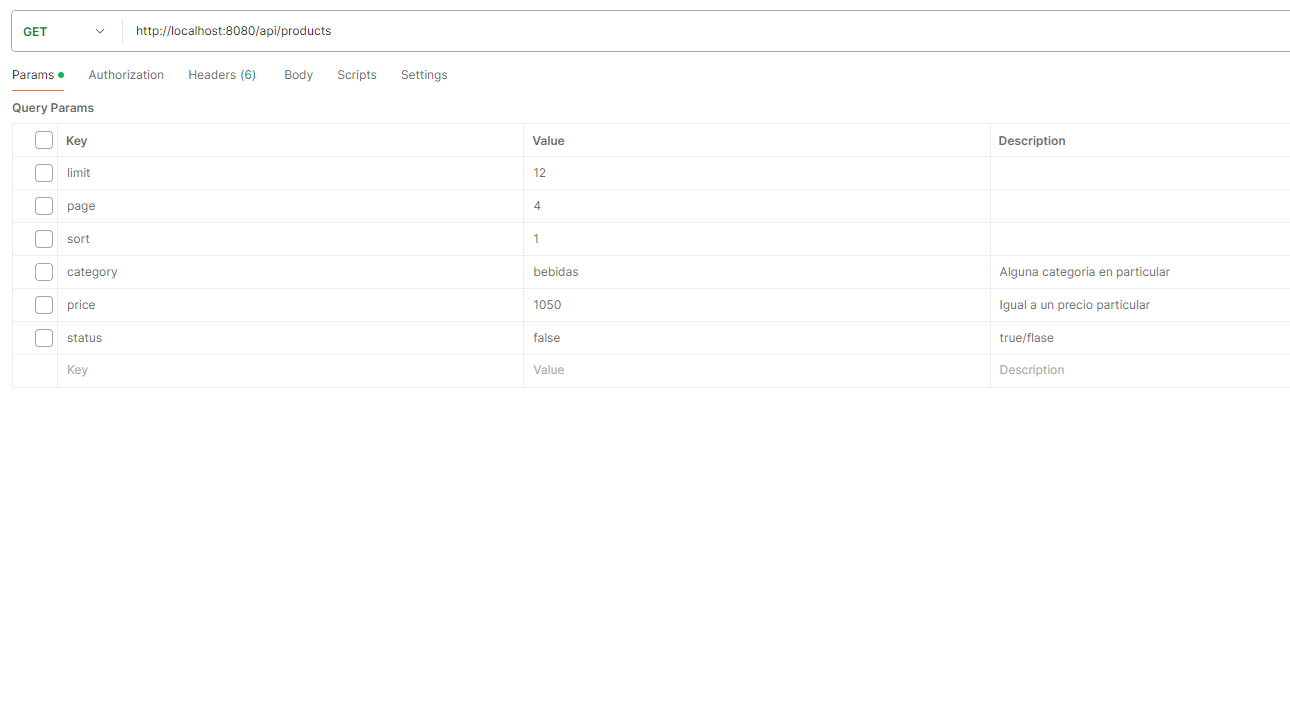
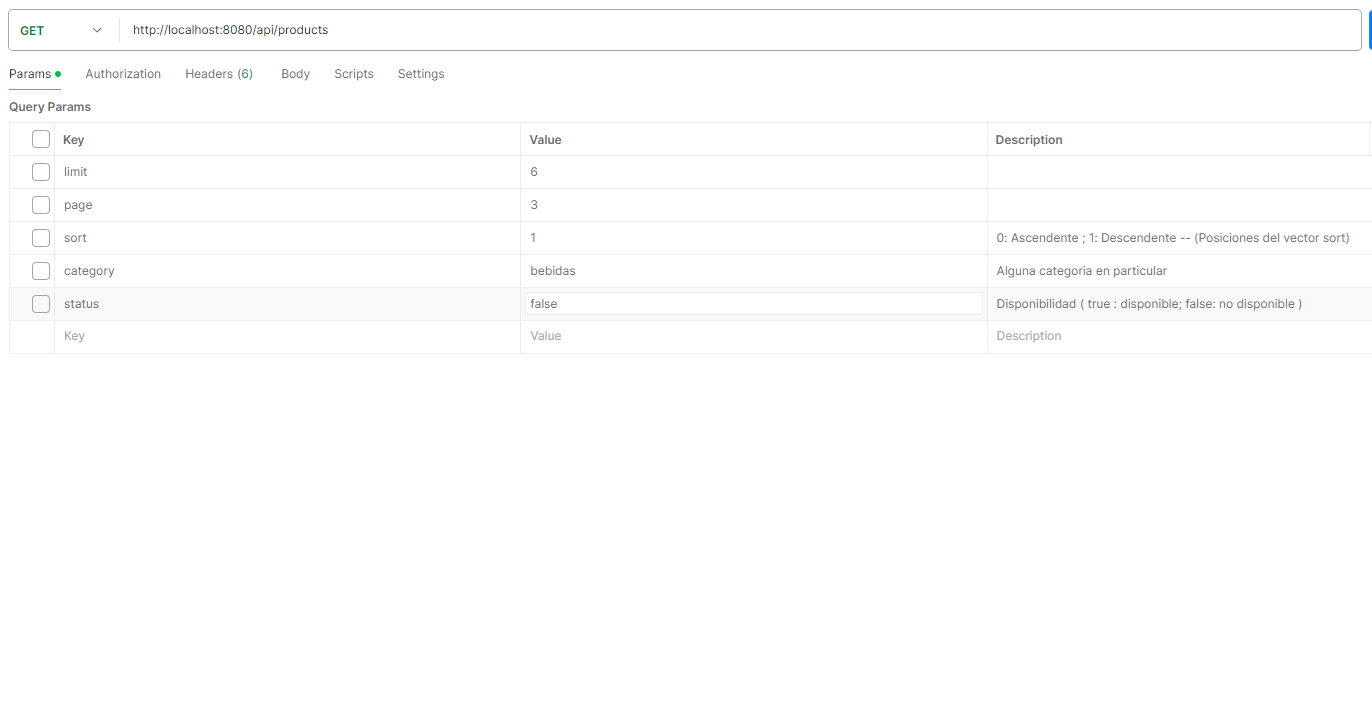
Parametros y filtros v1.1

diff --git a/src/models/product.model.js b/src/models/product.model.js
@@ -2,16 +2,53 @@ import { Schema, model } from "mongoose";
 import paginate from "mongoose-paginate-v2";
 
 const productSchema = new Schema({
-    title: { type: String, required: true, trim: true },
-    description: { type: String, required: true, trim: true, maxLength: 100 },
-    code: { type: String, required: true, uppercase: true },
-    price: { type: Number, min: 0, max: 10000 },
-    status: { type: Boolean, required: true },
-    stock: { type: Number, min: 0, max: 100 },
-    category: { type: String, required: true },
-    thumbnails: { type: String, required: false, trim: true },
+    title: {
+        type: String,
+        required: [ true, "El título es obligatorio" ],
+        trim: true
+    },
+    description: {
+        type: String,
+        required: [ true, "La descripción es obligatoria" ],
+        trim: true,
+        maxLength: [ 100, "La descripcion  debe tener como máximo 100 caracteres" ]
+    },
+    code: {
+        type: String,
+        required: true,
+        trim: true,
+        uppercase: true
+    },
+    price: {
+        type: Number,
+        required: [ true, "El precio es obligatorio" ],
+        min: 1,
+        max: 10000
+    },
+    status: {
+        type: Boolean,
+        required: [ true, "El status/disponibilidad es obligatoria" ],
+    },
+    stock: {
+        type: Number,
+        required: [ true, "El stock es obligatorio" ],
+        min: 0,
+        max: 100
+    },
+    category: {
+        type: String,
+        required: [ true, "La categoria es obligatoria" ]
+    },
+    thumbnails: {
+        type: String,
+        required: [ true, "La imagen es obligatoria" ],
+        trim: true,
+    }
 });
 
+// Índice simple para buscar por categoría
+productSchema.index({ category: 1 }, { name: "idx_category" });
+1
 // Agrega mongoose-paginate-v2 para habilitar las funcionalidades de paginación.
 productSchema.plugin(paginate);
 

diff --git a/src/managers/productsManager.js b/src/managers/productsManager.js
@@ -19,17 +19,16 @@ export default class ProductsManager {
         try {
 
             const $and = [];
-
+            //Disponibilidad: true : Disponible ; false: No disponible
             if (paramFilters?.status) $and.push({ name:  paramFilters.status });
-            if (paramFilters?.price) $and.push({ price:  paramFilters.price });
             if (paramFilters?.category) $and.push({ category:  paramFilters.category });
 
             const filters = $and.length > 0 ? { $and } : {};
 
-            const sort = {
-                asc: { price: 1 },
-                desc: { price: -1 },
-            };
+            //Parametro SORT del request (0 o 1);
+            //Posicion 0 del vector (price:1 => ascendente)
+            //Posicion 1 del vector (price:-1 => descendente)
+            const sort = [ { price: 1 }, { price: -1 } ];
 
             const paginationOptions = {
                 limit: paramFilters.limit ?? 10,
@@ -38,7 +37,6 @@ export default class ProductsManager {
                 lean: true,
             };
 
-            console.log(paginationOptions);
             const products = await this.#productModel.paginate(filters, paginationOptions);
             return products;
 
